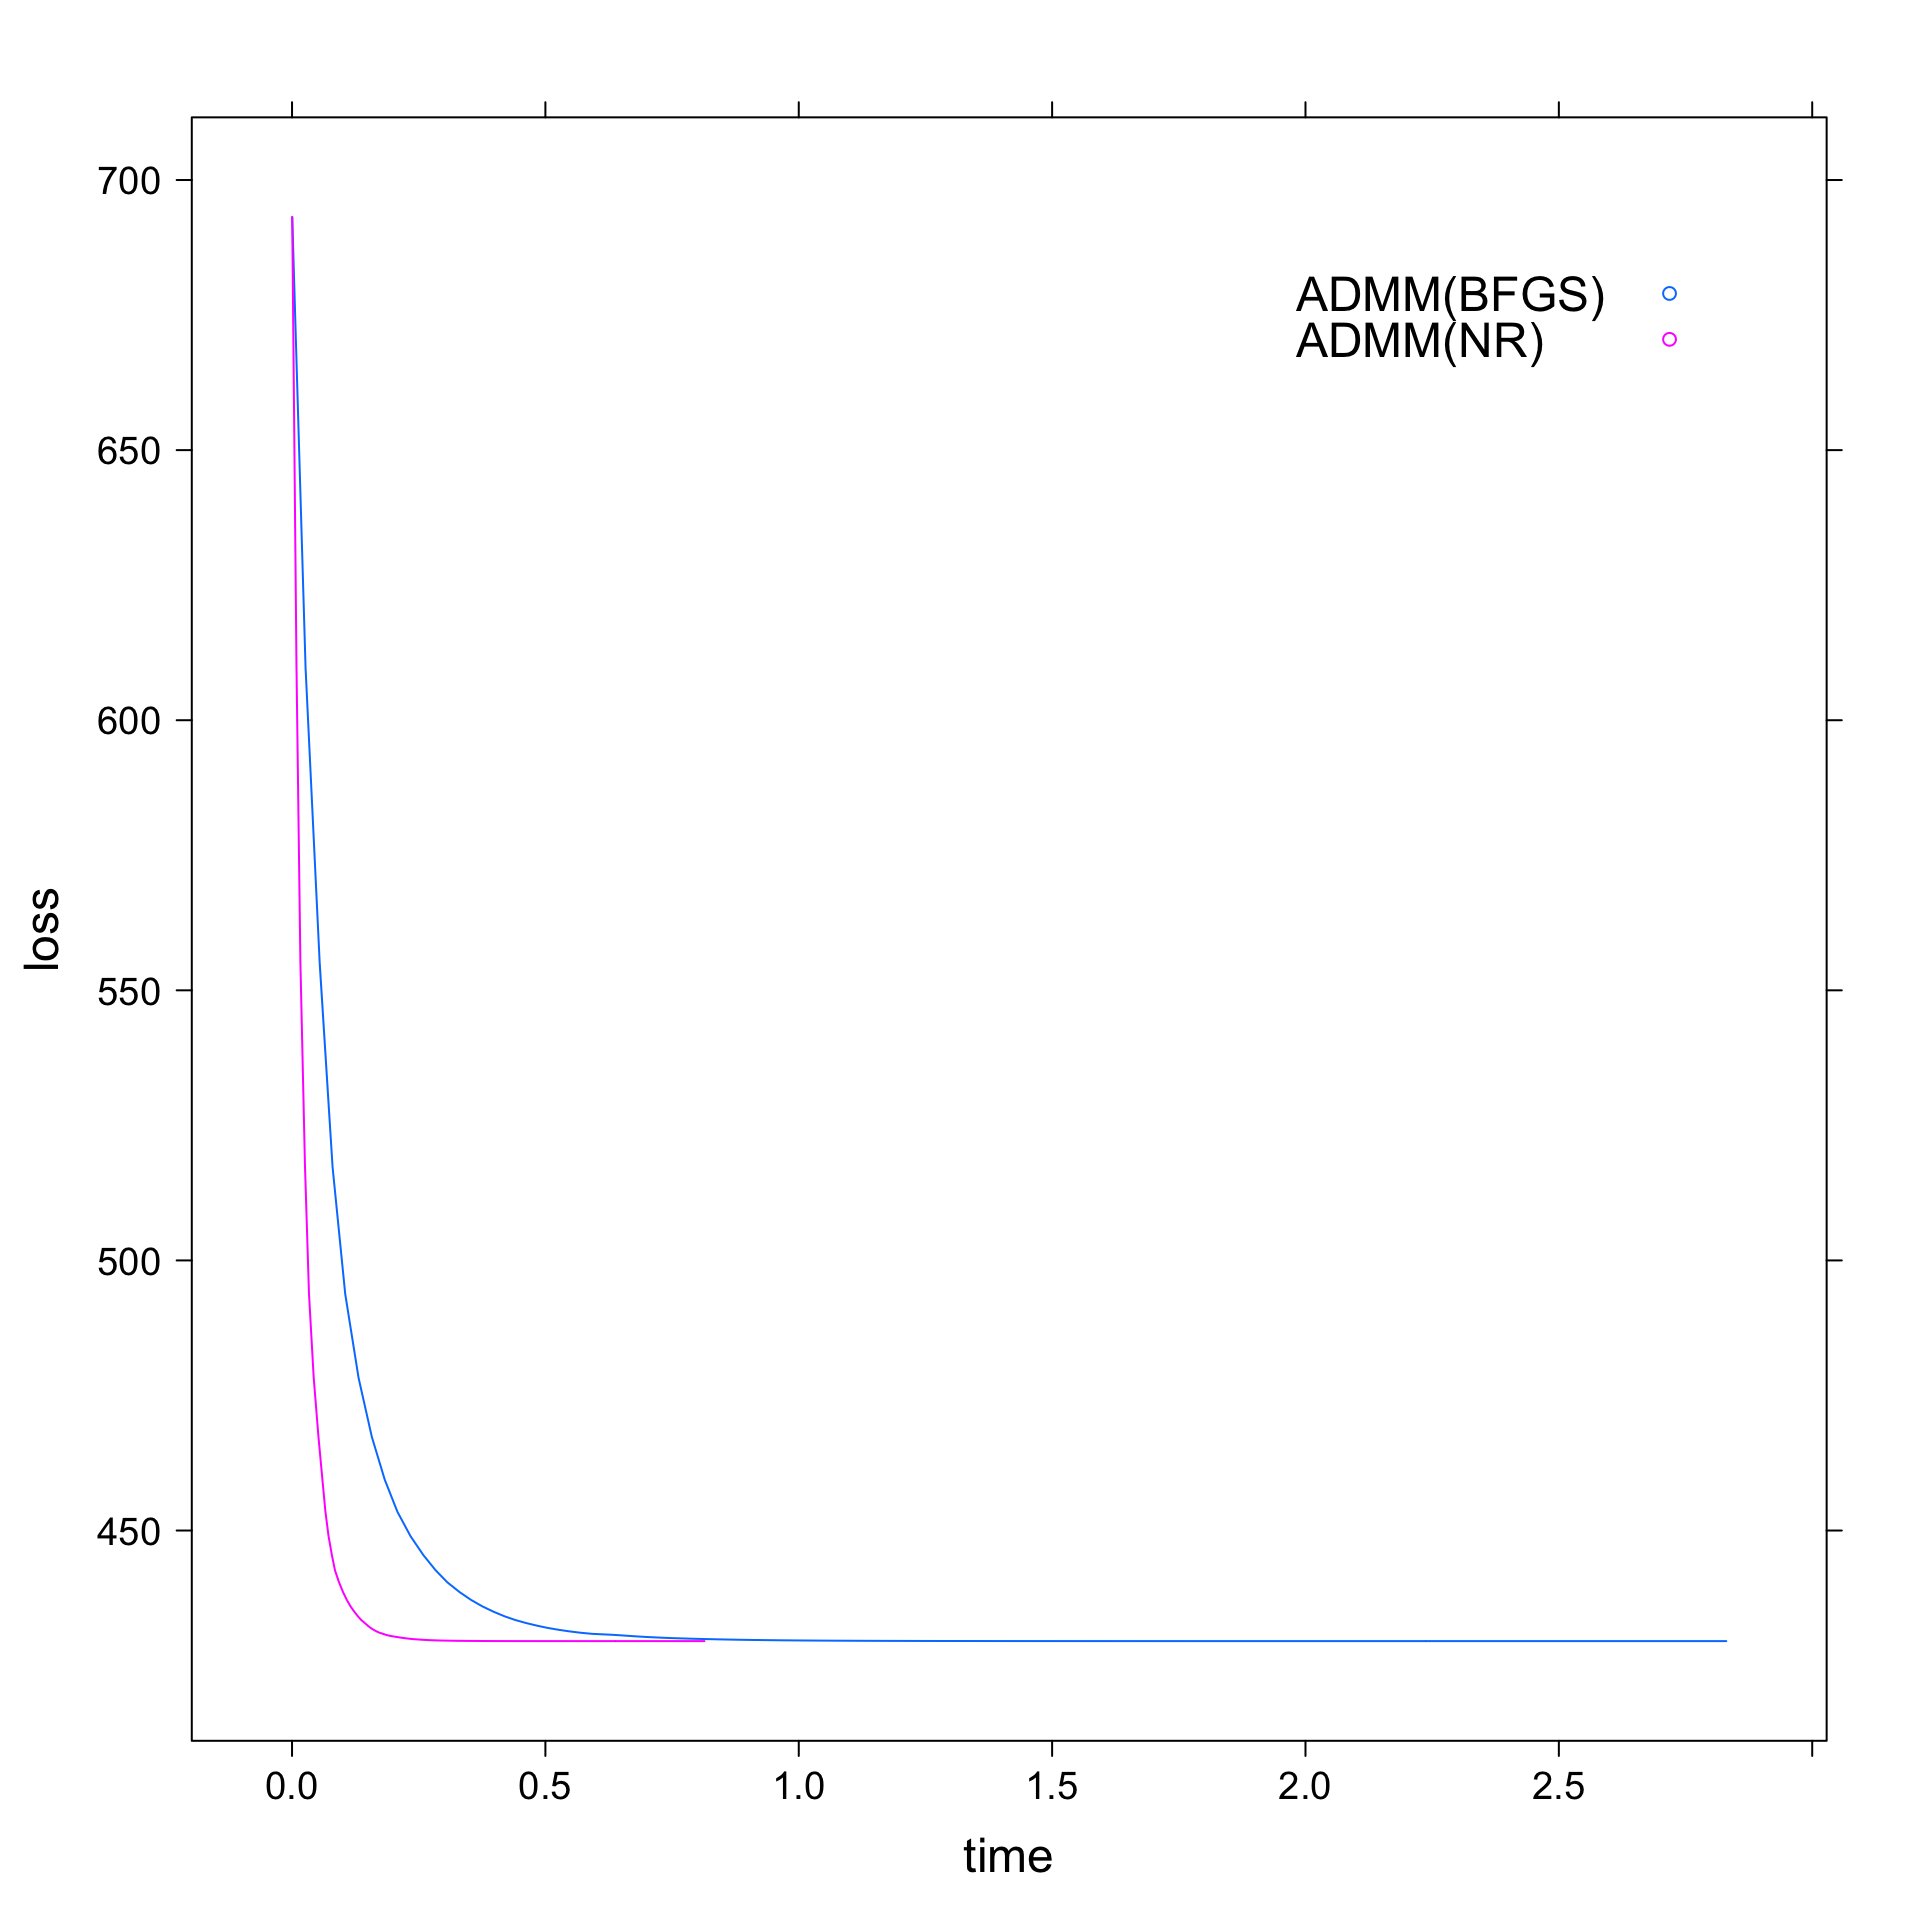
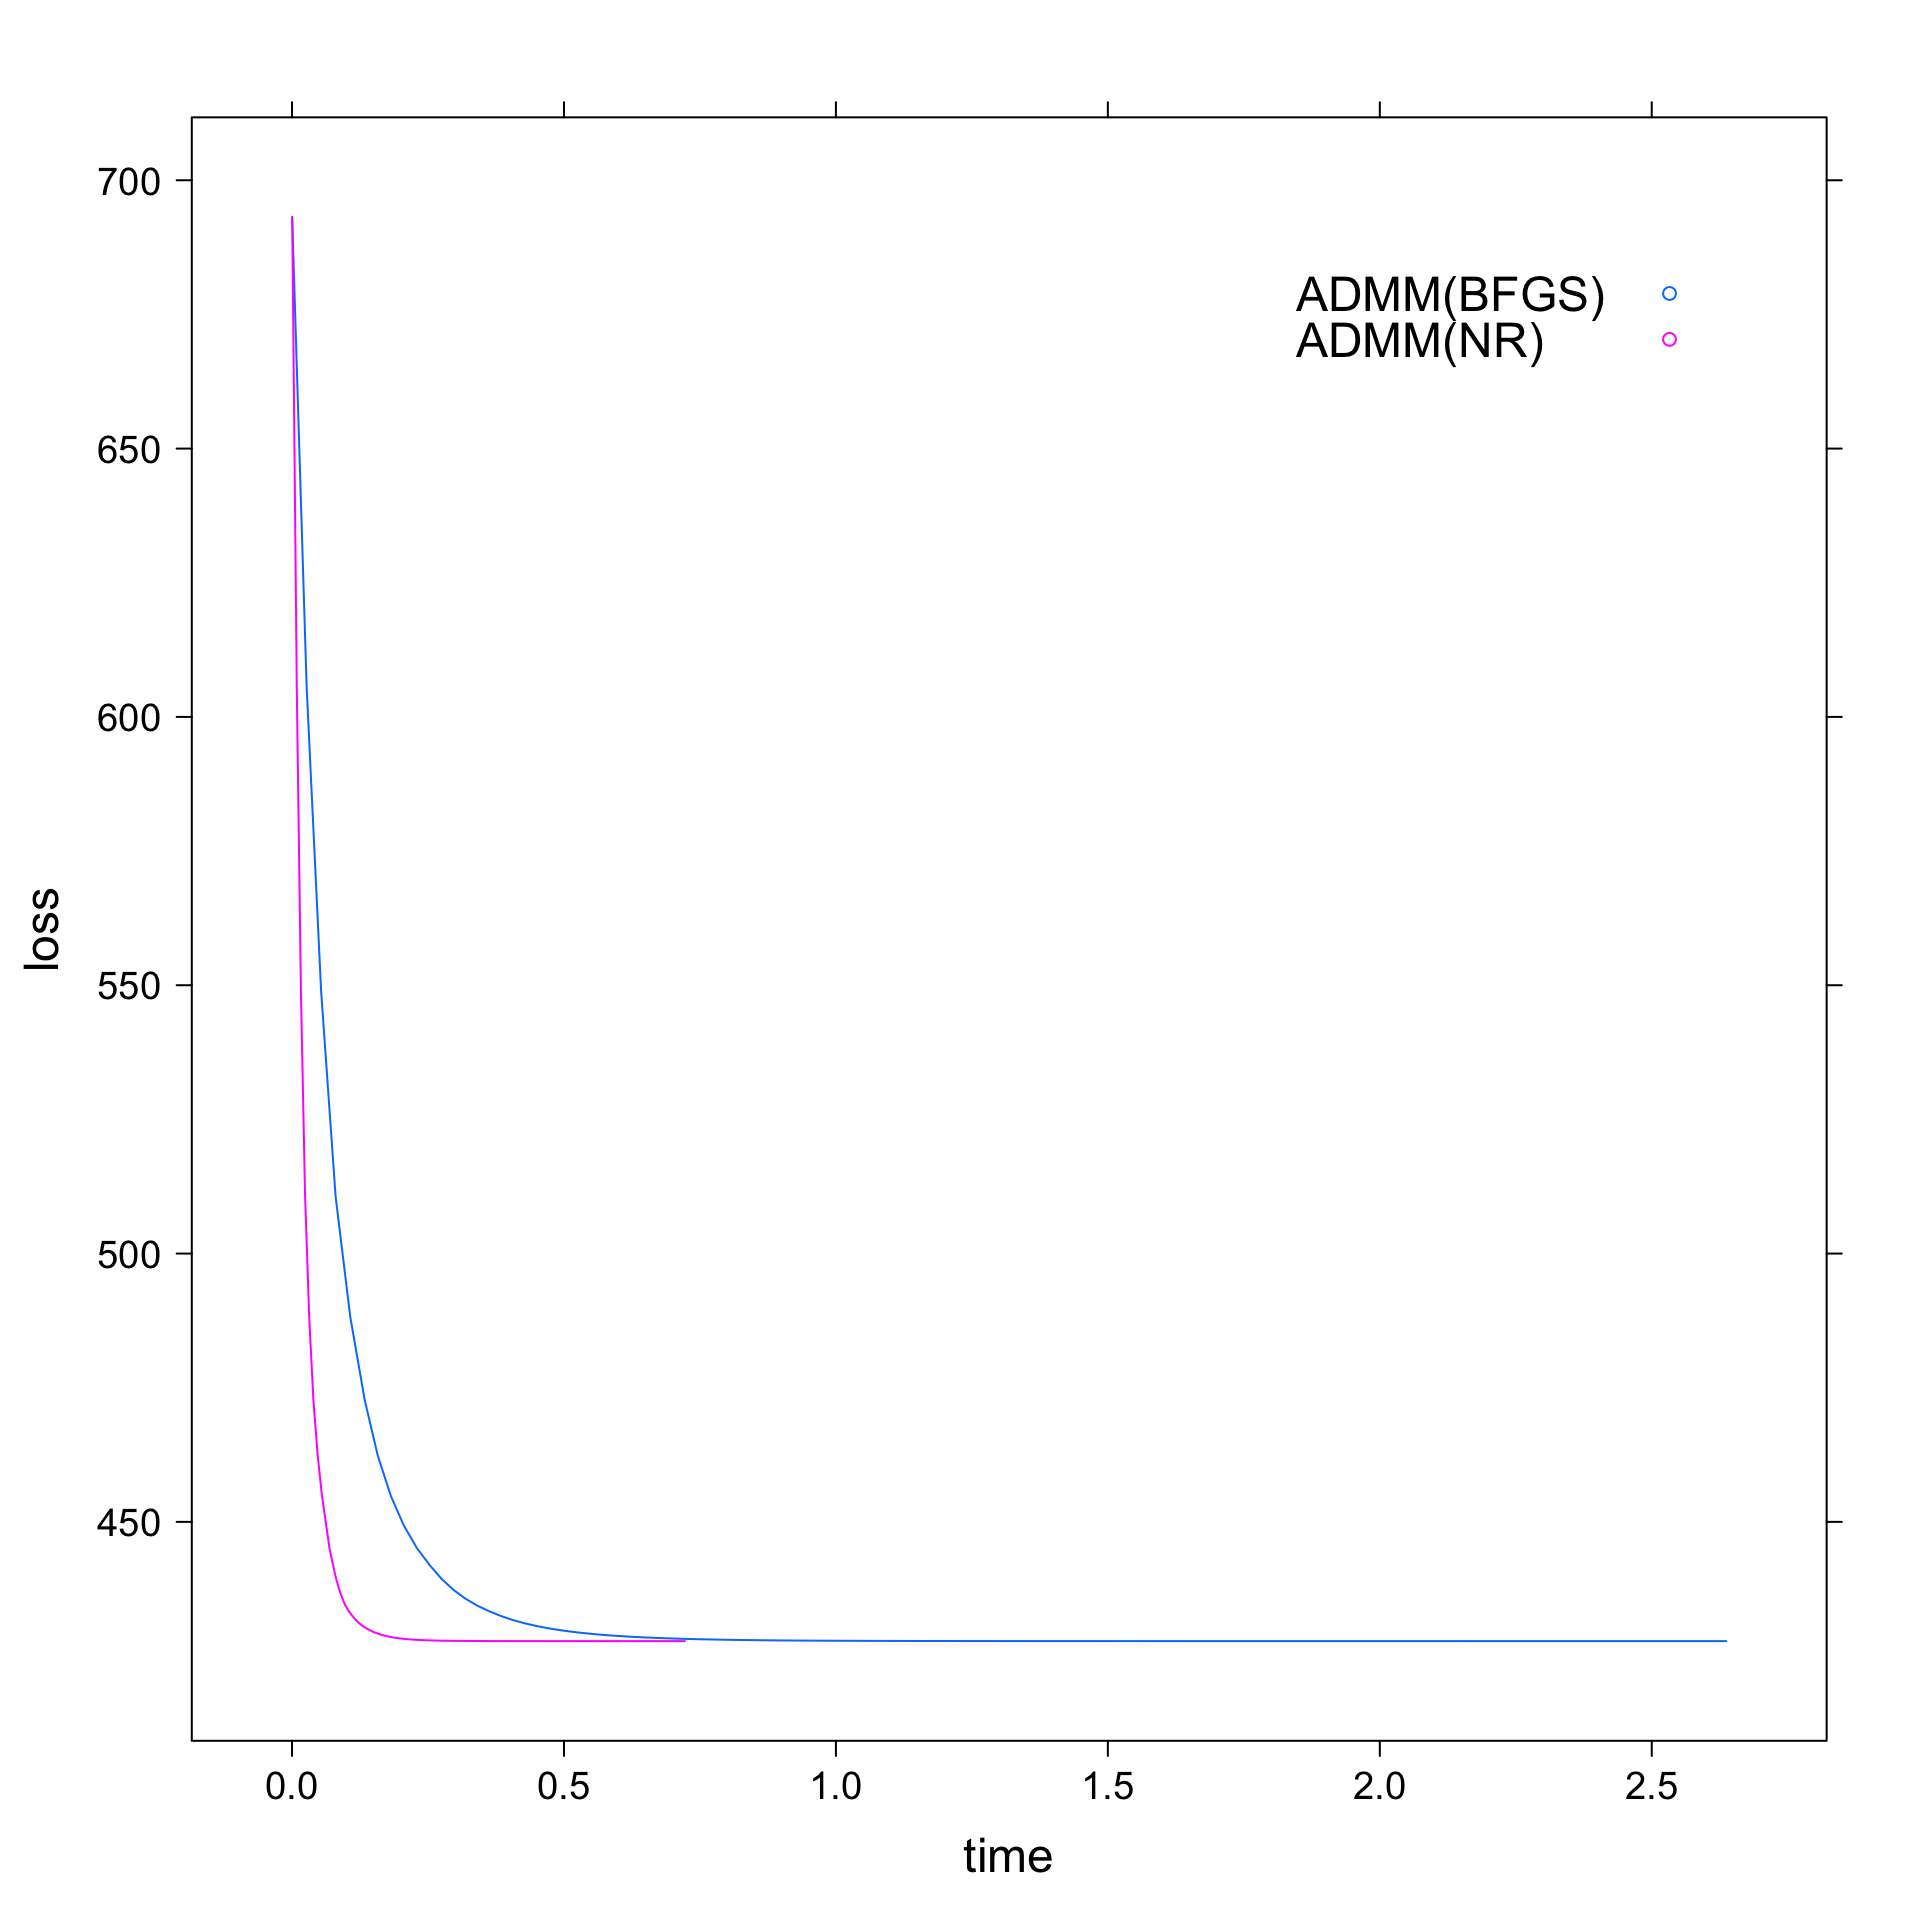
Built site for solvers: 1.0@aac34c8

diff --git a/articles/compare-fista-admm.html b/articles/compare-fista-admm.html
@@ -111,9 +111,9 @@
 <div class="sourceCode" id="cb4"><pre class="downlit">
 <span class="co"># Comparing total execution time</span>
 <span class="fu"><a href="https://rdrr.io/r/base/print.html">print</a></span>(<span class="kw">fista_fit</span><span class="op">$</span><span class="kw">total_time</span>)
-<span class="co">#&gt; [1] 1.982861</span>
+<span class="co">#&gt; [1] 1.423765</span>
 <span class="fu"><a href="https://rdrr.io/r/base/print.html">print</a></span>(<span class="kw">admm_fit</span><span class="op">$</span><span class="kw">total_time</span>)
-<span class="co">#&gt; [1] 3.679024</span>
+<span class="co">#&gt; [1] 3.409868</span>
 </pre></div>
 <p>Now, these fits cannot be directly used to plot as they contain a lot of parameter so we’ll call a utility function that merges the relevant parameter and returns a dataframe.</p>
 <div class="sourceCode" id="cb5"><pre class="downlit">

diff --git a/articles/compare_opt_algo.html b/articles/compare_opt_algo.html
@@ -110,9 +110,9 @@
 <div class="sourceCode" id="cb4"><pre class="downlit">
 <span class="co"># Comparing total execution time</span>
 <span class="fu"><a href="https://rdrr.io/r/base/print.html">print</a></span>(<span class="kw">admm_nr</span><span class="op">$</span><span class="kw">total_time</span>)
-<span class="co">#&gt; [1] 0.8216924</span>
+<span class="co">#&gt; [1] 0.7289669</span>
 <span class="fu"><a href="https://rdrr.io/r/base/print.html">print</a></span>(<span class="kw">admm_bfgs</span><span class="op">$</span><span class="kw">total_time</span>)
-<span class="co">#&gt; [1] 2.852332</span>
+<span class="co">#&gt; [1] 2.65919</span>
 </pre></div>
 <p>Now, these fits cannot be directly used to plot as they contain a lot of parameter so we’ll call a utility function that merges the relevant parameter and returns a dataframe.</p>
 <div class="sourceCode" id="cb5"><pre class="downlit">

diff --git a/index.html b/index.html
@@ -74,7 +74,11 @@
 
       </header><div class="row">
   <div class="contents col-md-9">
-Various solvers for SLOPE.
+<div id="solvers" class="section level1">
+<div class="page-header"><h1 class="hasAnchor">
+<a href="#solvers" class="anchor"></a>solvers</h1></div>
+<p>A collection of implementation of various algorithms to solve Sorted L-One Penalised Estimation problem</p>
+</div>
   </div>
 
   <div class="col-md-3 hidden-xs hidden-sm" id="pkgdown-sidebar">
